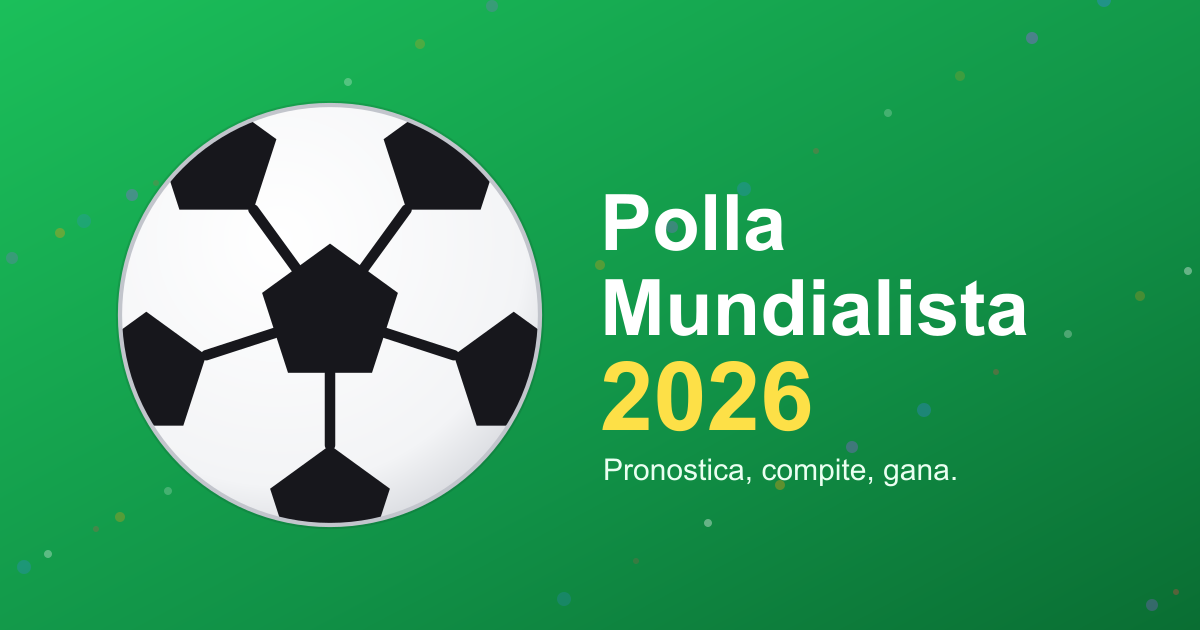
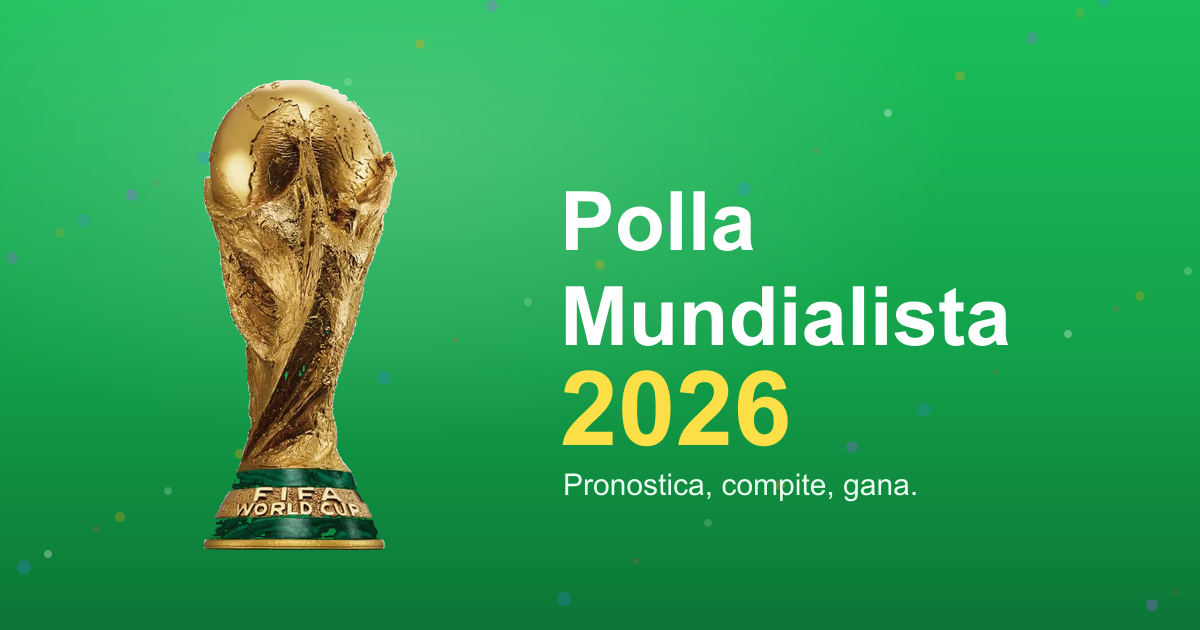
feat(pwa): emblema oficial Mundial 2026 (26 + trofeo) en iconos y preview
Reemplaza el balon por el emblema del Mundial: '26' blanco con el trofeo
dorado sobre fondo verde festivo. El trofeo se extrajo del logo oficial
(apps/web/assets/trofeo.png) por saturacion para quitar el tablero de fondo
del archivo de origen. Regenera pwa-192/512, maskable, apple-touch, favicon.png
y og.png (1200x630 con 'Polla Mundialista 2026'). index.html usa favicon.png.

diff --git a/apps/web/index.html b/apps/web/index.html
@@ -2,7 +2,7 @@
 <html lang="es">
   <head>
     <meta charset="UTF-8" />
-    <link rel="icon" type="image/svg+xml" href="/favicon.svg" />
+    <link rel="icon" type="image/png" href="/favicon.png" />
     <meta name="viewport" content="width=device-width, initial-scale=1, viewport-fit=cover" />
     <meta name="theme-color" content="#0f172a" />
     <link rel="apple-touch-icon" href="/apple-touch-icon.png" />

diff --git a/apps/web/vite.config.ts b/apps/web/vite.config.ts
@@ -9,7 +9,7 @@ export default defineConfig({
     react(),
     VitePWA({
       registerType: 'autoUpdate',
-      includeAssets: ['favicon.svg', 'apple-touch-icon.png', 'og.png'],
+      includeAssets: ['favicon.png', 'apple-touch-icon.png', 'og.png'],
       manifest: {
         name: 'Polla Mundialista 2026',
         short_name: 'Polla 2026',
